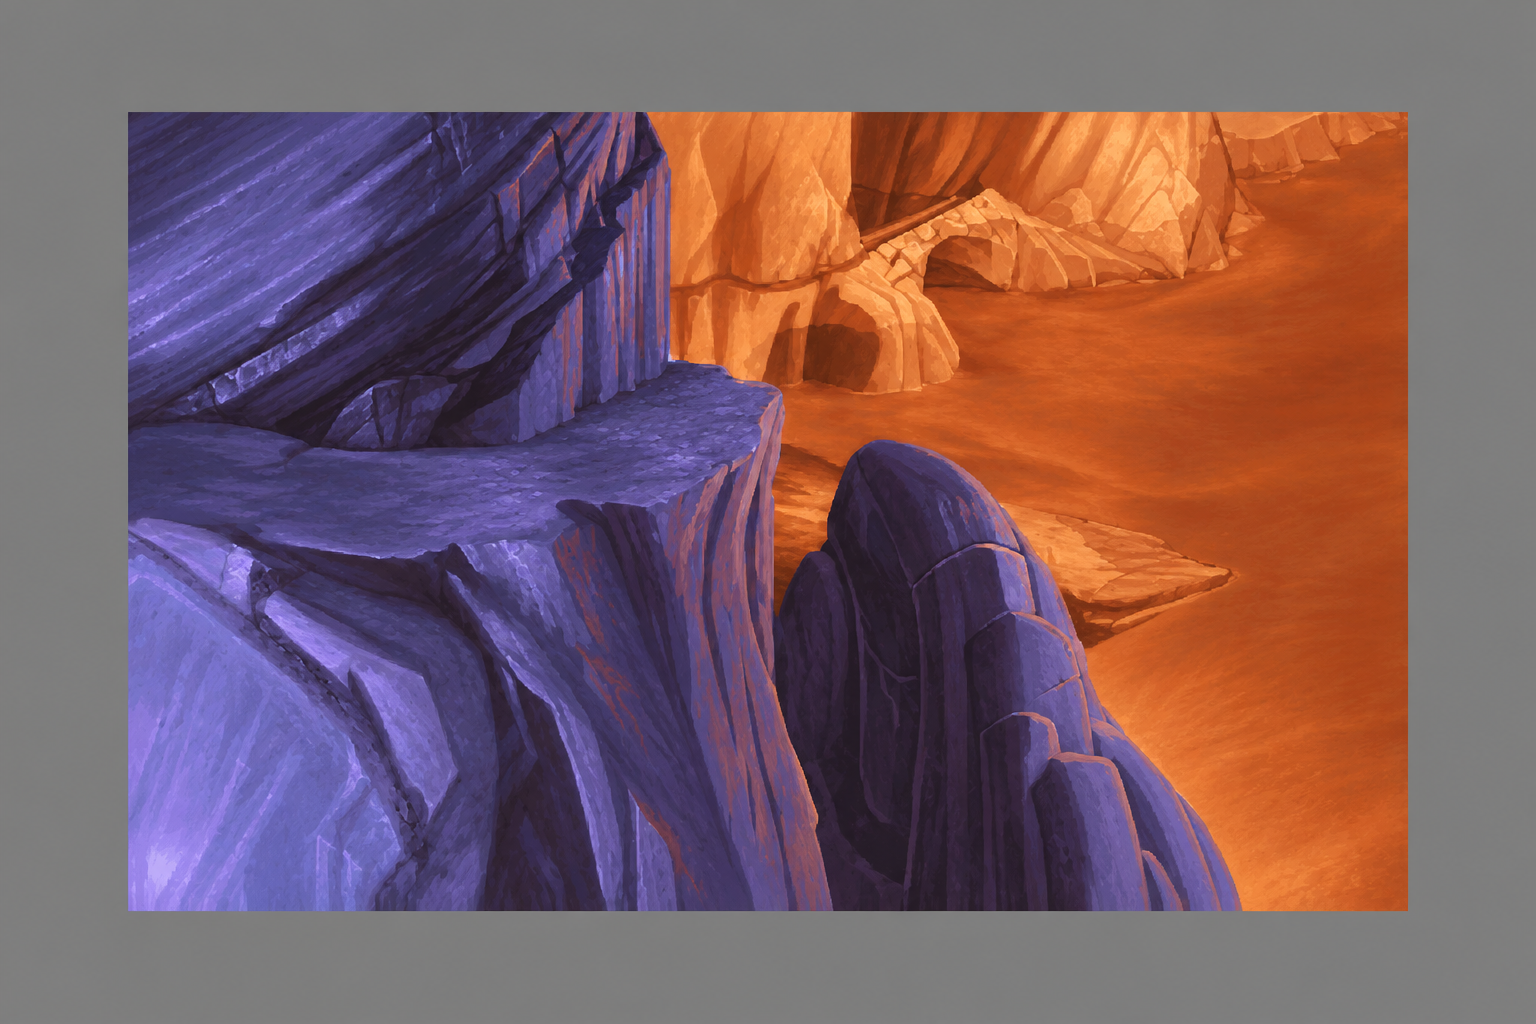
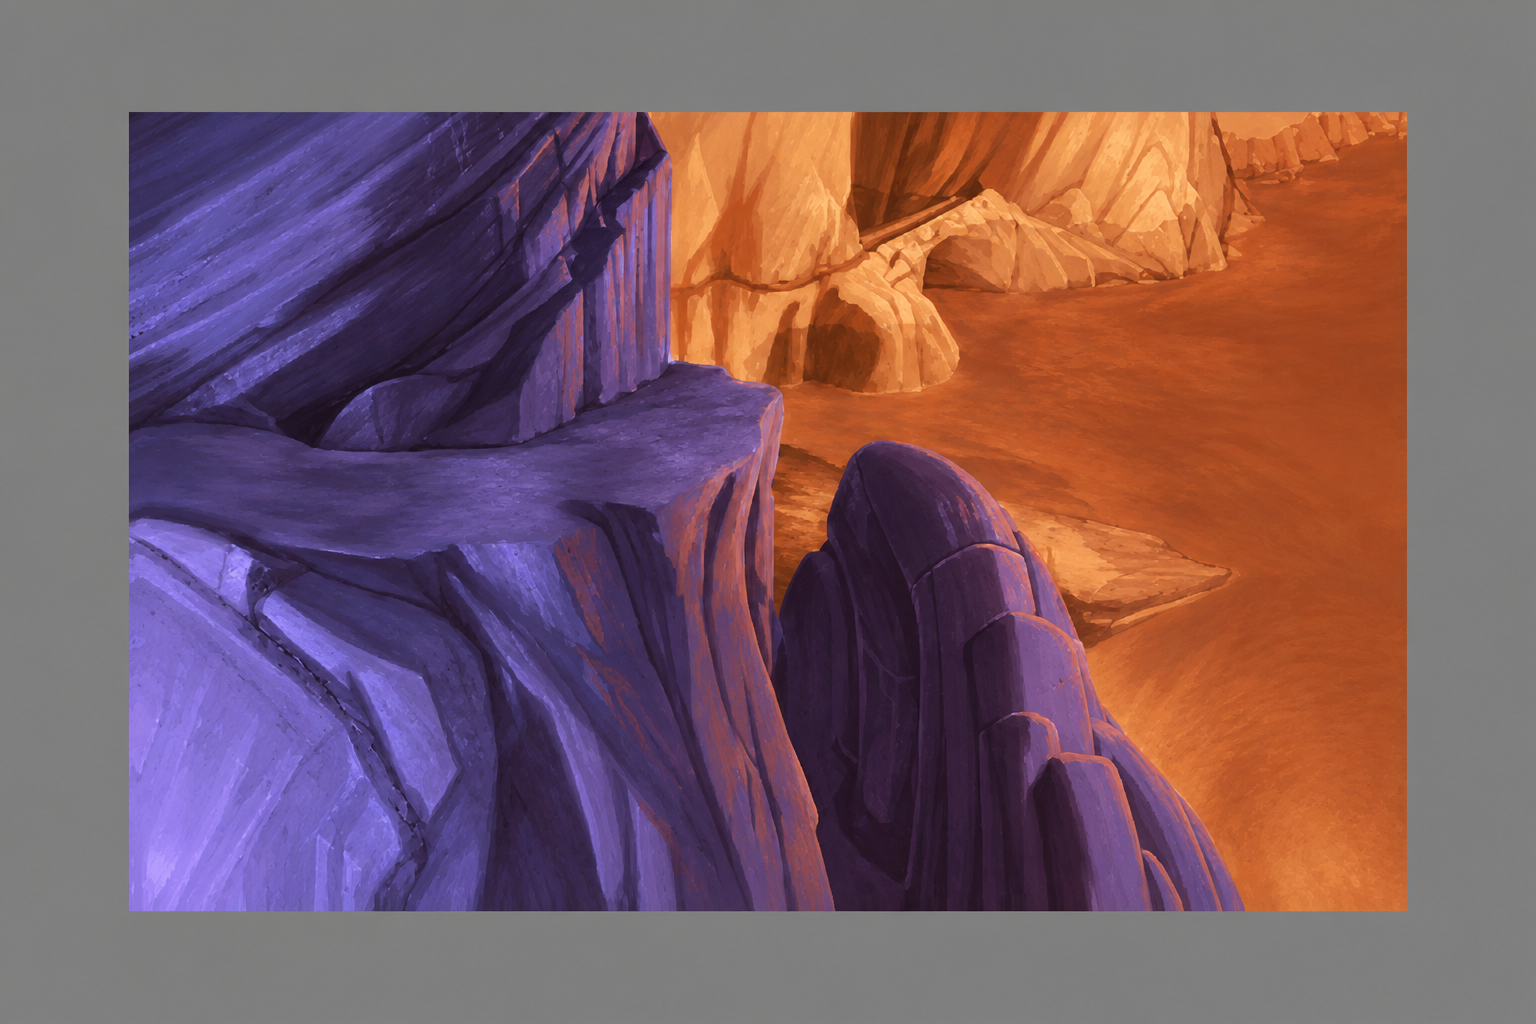
GPT: obj580_01, rom089_del1av2, rom089_del2av2, rom090, rom101

diff --git a/jobber/rom101/notat.md b/jobber/rom101/notat.md
@@ -3,13 +3,13 @@
 Levert for Claudes kontroll.
 
 - Verktøy: ChatGPT Images, innebygd bildeverktøy i Codex. Modellnavn og versjon vises ikke.
-- Dato: 2026-10-07 10:06 CEST.
-- Forsøk: 2. Valgt forsøk: 2.
+- Dato: 2026-10-07 12:03 CEST.
+- Forsøk: 3. Valgt forsøk: 3.
 - Prompt: prompt.txt brukt ordrett i alle forsøk.
 - Bilde 1: referanse.png. Bilde 2 i valgt forsøk: stil/room022_beach.png.
 - Format: PNG, 1536 x 1024. Originalfilen fra bildeverktøyet er kopiert direkte.
 
-Forsøk 2 er valgt etter sammenligning av den store lilla fjellflaten, den smale oppstående formen og de oransje flatene. Hovedkonturene følger referansen visuelt. Tekstur i det oransje feltet og lyset på fjellet må kontrolleres.
+Ny kandidat etter retur på den tidligere leveransen, der Claude målte forskyvning opptil 1,6 originalpiksler. Tredje forsøk er valgt. De store fjellkantene og avsatsen følger referansen visuelt, men farger og fine berglinjer er tolket friere. Det er ikke målt at forskyvningen er løst. Den nye filen trenger ny geometrikontroll før godkjenning. Returens alternative prompt er ikke brukt, siden Tom har bedt om prompt.txt ordrett.
 
 Den grå kanten har svak gradering og er ikke ensfarget #808080. Den er levert som generert.
 
@@ -18,4 +18,4 @@ Visuell sammenligning er utført. Claudes automatiske kontroll, sammensying og k
 Referanse SHA256: eb6e78c5e5c2646cad630ea321375c189523d743c57832a477de4316297e1c1e
 Prompt SHA256: c4d6f198738b9bccb0c8ace65a2fe958f950713f2e7922f6b07f2c707786ef36
 Stilanker SHA256: 08796e71cd07d91b4a6773cc383c8589bd1f69f491d7e20c8f9f01b2f296f39f
-Resultat SHA256: 77dfc36deb17ba1ad4c457acb49cb7e976a9ee5ecdc676a7a8a5c16744386aab
+Resultat SHA256: 1c370ce304e49128c75b6f96ea05da09a66883df9cec3b903c7d1a04c3e3c330

diff --git a/jobber/rom089_del1av2/notat.md b/jobber/rom089_del1av2/notat.md
@@ -1,0 +1,21 @@
+# rom089_del1av2
+
+Levert for Claudes kontroll.
+
+- Verktøy: ChatGPT Images, innebygd bildeverktøy i Codex. Modellnavn og versjon vises ikke.
+- Dato: 2026-10-07 12:03 CEST.
+- Forsøk: 1. Valgt forsøk: 1.
+- Prompt: prompt.txt brukt ordrett i alle forsøk.
+- Bilde 1: referanse.png. Bilde 2 i valgt forsøk: stil/room022_beach.png.
+- Format: PNG, 1536 x 1024. Originalfilen fra bildeverktøyet er kopiert direkte.
+
+Klipper, gangbane, søyler og horisont følger hovedformene i referansen visuelt. Fine sprekker i gangbanen og fjellet er tolket friere, og skyggepartiene er noe lysere. Kontroller gangbanens kanter og skjøten mot del 2.
+
+Den grå kanten har svak gradering og er ikke ensfarget #808080. Den er levert som generert.
+
+Visuell sammenligning er utført. Claudes automatiske kontroll, sammensying og kontroll i spillet gjenstår.
+
+Referanse SHA256: f3777d5ab61dcece4be609bac83de6b41d7cb72c5c0c26aa1e2569cf798ddb17
+Prompt SHA256: 89329a16363ea55f409b091037451057093f9a8a50dfd487f16b1520195bb2a3
+Stilanker SHA256: 08796e71cd07d91b4a6773cc383c8589bd1f69f491d7e20c8f9f01b2f296f39f
+Resultat SHA256: 4e5ea852c11daeb065813caf082e997904816c78af0352bbf8dac126656fa1c9

diff --git a/jobber/rom090/notat.md b/jobber/rom090/notat.md
@@ -1,0 +1,21 @@
+# rom090
+
+Levert for Claudes kontroll.
+
+- Verktøy: ChatGPT Images, innebygd bildeverktøy i Codex. Modellnavn og versjon vises ikke.
+- Dato: 2026-10-07 12:03 CEST.
+- Forsøk: 2. Valgt forsøk: 2.
+- Prompt: prompt.txt brukt ordrett i alle forsøk.
+- Bilde 1: referanse.png. Bilde 2 i valgt forsøk: stil/room009_core.png.
+- Format: PNG, 1536 x 1024. Originalfilen fra bildeverktøyet er kopiert direkte.
+
+Valgt etter to forsøk. Trekanten, krysset og de større linjene følger hovedformene visuelt. Bildet er fortsatt lysere enn originalen, og steinteksturen er tolket friere. Kontroller skyggenivået og hver kant i tegnet.
+
+Den grå kanten har svak gradering og er ikke ensfarget #808080. Den er levert som generert.
+
+Visuell sammenligning er utført. Claudes automatiske kontroll, sammensying og kontroll i spillet gjenstår.
+
+Referanse SHA256: 40f609ea05e0370e5257ffead9c66690bd96aa6053b8c8fedf5cb80c2f1069b6
+Prompt SHA256: c4d6f198738b9bccb0c8ace65a2fe958f950713f2e7922f6b07f2c707786ef36
+Stilanker SHA256: fd37d46069b111b1f5c85bdfde9f429dbc5f8a7f8333efc9d24ab466fc6c2ba4
+Resultat SHA256: 7a3a6291c3b58d8dbb022b943d275ee71852016fc71e9df93495516e3c117043

diff --git a/jobber/obj580_01/notat.md b/jobber/obj580_01/notat.md
@@ -1,0 +1,21 @@
+# obj580_01
+
+Levert for Claudes kontroll.
+
+- Verktøy: ChatGPT Images, innebygd bildeverktøy i Codex. Modellnavn og versjon vises ikke.
+- Dato: 2026-10-07 12:03 CEST.
+- Forsøk: 1. Valgt forsøk: 1.
+- Prompt: prompt.txt brukt ordrett i alle forsøk.
+- Bilde 1: referanse.png. Bilde 2 i valgt forsøk: stil/room009_core.png.
+- Format: PNG, 1536 x 1024. Originalfilen fra bildeverktøyet er kopiert direkte.
+
+Det lange lave objektet og hovedformen på frontmønsteret følger referansen visuelt. Fine utskjæringer og små blå lyspunkter i bakgrunnen er tolket friere. Kontroller hver markering og plasseringen over rom088.
+
+Den grå kanten har svak gradering og er ikke ensfarget #808080. Den er levert som generert.
+
+Visuell sammenligning er utført. Claudes automatiske kontroll, sammensying og kontroll i spillet gjenstår.
+
+Referanse SHA256: 016df3ff840763ff17e22c4e62f231da066e87c00dcfb24760dd416395acaa89
+Prompt SHA256: dcb9470c07fd518bc82d967a852efa2433b05df096fd21358f634ca983ad741d
+Stilanker SHA256: fd37d46069b111b1f5c85bdfde9f429dbc5f8a7f8333efc9d24ab466fc6c2ba4
+Resultat SHA256: 99f655f4ca426615762494e70eaee9d155aece0121987996124e0131fbcdc50e

diff --git a/jobber/rom089_del2av2/notat.md b/jobber/rom089_del2av2/notat.md
@@ -1,0 +1,21 @@
+# rom089_del2av2
+
+Levert for Claudes kontroll.
+
+- Verktøy: ChatGPT Images, innebygd bildeverktøy i Codex. Modellnavn og versjon vises ikke.
+- Dato: 2026-10-07 12:03 CEST.
+- Forsøk: 1. Valgt forsøk: 1.
+- Prompt: prompt.txt brukt ordrett i alle forsøk.
+- Bilde 1: referanse.png. Bilde 2 i valgt forsøk: stil/room022_beach.png.
+- Format: PNG, 1536 x 1024. Originalfilen fra bildeverktøyet er kopiert direkte.
+
+Klipper, gangbane, søyler og åpning følger hovedformene i referansen visuelt. Fine sprekker er tolket friere, og skyggepartiene er noe lysere. Kontroller inngangen, gangbanens kanter og skjøten mot del 1.
+
+Den grå kanten har svak gradering og er ikke ensfarget #808080. Den er levert som generert.
+
+Visuell sammenligning er utført. Claudes automatiske kontroll, sammensying og kontroll i spillet gjenstår.
+
+Referanse SHA256: 630c5e7c152a6cf1a6f55d260e5fc43a1a3ac83d1fb380cc6718482471c38a3c
+Prompt SHA256: 367146a9642b1037af079f1109695d67ddbe20f57f34ebe3d3c1b33ab5520b2b
+Stilanker SHA256: 08796e71cd07d91b4a6773cc383c8589bd1f69f491d7e20c8f9f01b2f296f39f
+Resultat SHA256: e99cfb8ea675e4c33d568c0730e2d1ab40447d876380c5cde64ee6a360744103
